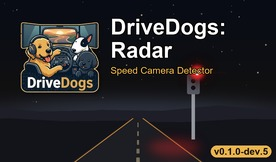
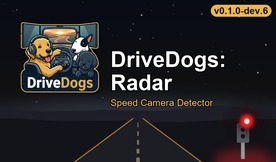
put the cover on the shared drivedogs layout and bump to 0.1.0-dev.6
the other drivedogs covers centre the title block and put the version pill top-right; radar had the
title near the top and the pill bottom-right. the speed camera moves to the bottom-right verge so it
clears the title, the same corner economy uses for its coins and truckparts for its renders.
mod content is unchanged from dev.5: the reference is being re-extracted, so the dev.6 package was
repacked from dev.5 with only the cover and manifest version swapped.

Changed region(s): [[0.3768, 0.2469, 0.8116, 0.9877], [0.4058, 0.0, 0.9855, 0.2469], [0.7536, 0.679, 1.0, 1.0]]

diff --git a/tools/generate_cover.py b/tools/generate_cover.py
@@ -3,9 +3,10 @@
 Generates the Mod Manager cover/thumbnail (src/cover.jpg, referenced by manifest.sii `icon:`). SCS requires a
 276x162 JPEG.
 
-Same layout and gold/amber palette as the other DriveDogs covers (logo left, title block right, road, amber
-version badge); the Radar motif is a night road with a pole-mounted speed camera on the verge firing the
-mod's red police-style strobe, its red glow reflected on the asphalt.
+Same layout and gold/amber palette as the other DriveDogs covers (logo top-left, title block right centred
+on the cover, road, amber version badge top-right); the Radar motif is a night road with a pole-mounted speed
+camera in the bottom-right corner beside the road, firing the mod's red police-style strobe, its red glow
+reflected on the verge.
 
 Composited at 4x (1104x648) then downscaled for anti-aliasing. The badge is read from VERSION, so rerun this
 before every build that bumps the version.
@@ -124,11 +125,12 @@ def add_road(img):
 
 
 def add_camera(img):
-    """Pole speed camera on the right verge (between road and title block), box facing the driver, firing the
-    red strobe: hard core + wide bloom + a red smear on the road below."""
+    """Pole speed camera on the right verge in the bottom-right corner, below the title block (where Economy keeps
+    its coins and Physics its springs), box facing the driver, firing the red strobe: hard core + wide bloom + a
+    red smear on the verge below."""
     w, h = img.size
-    x, base_y = w * 0.70, h * 0.86
-    top_y = h * 0.46
+    x, base_y = w * 0.88, h * 0.98
+    top_y = h * 0.76
     pole_w, box_w, box_h = w * 0.006, w * 0.045, h * 0.12
 
     body = Image.new("RGBA", img.size, (0, 0, 0, 0))
@@ -155,7 +157,7 @@ def add_camera(img):
     rd.line([(sx, sy - h * 0.10), (sx, sy + h * 0.10)], fill=(*STROBE_COLOR, 160), width=int(h * 0.005))
 
     smear = Image.new("RGBA", img.size, (0, 0, 0, 0))
-    ImageDraw.Draw(smear).ellipse([w * 0.52, h * 0.84, w * 0.74, h * 0.98], fill=(*STROBE_COLOR, 90))
+    ImageDraw.Draw(smear).ellipse([w * 0.76, h * 0.90, w * 1.00, h * 1.04], fill=(*STROBE_COLOR, 90))
     return composite(img, smear.filter(ImageFilter.GaussianBlur(radius=h * 0.04)), body, bloom, bloom,
                      rays.filter(ImageFilter.GaussianBlur(radius=h * 0.006)),
                      halo.filter(ImageFilter.GaussianBlur(radius=h * 0.015)), core)
@@ -213,7 +215,7 @@ def add_text(img):
 
     line_bbox = draw.textbbox((0, 0), "Ag", font=title_font)
     line_h = (line_bbox[3] - line_bbox[1]) * 1.15
-    y = h * 0.30 - (line_h * len(title_lines) + line_h * 0.9) / 2
+    y = h * 0.50 - (line_h * len(title_lines) + line_h * 0.9) / 2
     for line in title_lines:
         draw_with_outline(draw, (x_start, y), line, title_font, TITLE_COLOR, width=3)
         y += line_h
@@ -223,15 +225,16 @@ def add_text(img):
 
 
 def add_version_badge(img, version):
+    """Amber pill in the empty top-right corner, as on the other DriveDogs covers."""
     draw = ImageDraw.Draw(img, "RGBA")
     w, h = img.size
     text = f"v{version}"
     font = ImageFont.truetype(FONT_BOLD, int(h * 0.06))
     bbox = draw.textbbox((0, 0), text, font=font)
     pad_x, pad_y = h * 0.02, h * 0.015
-    x1, y1 = w - h * 0.03, h - h * 0.03
+    x1, y0 = w - h * 0.03, h * 0.03
     x0 = x1 - (bbox[2] - bbox[0]) - 2 * pad_x
-    y0 = y1 - (bbox[3] - bbox[1]) - 2 * pad_y
+    y1 = y0 + (bbox[3] - bbox[1]) + 2 * pad_y
     draw.rounded_rectangle([x0, y0, x1, y1], radius=(y1 - y0) / 2, fill=(*BADGE_COLOR, 235))
     draw.text((x0 + pad_x - bbox[0], y0 + pad_y - bbox[1]), text, font=font, fill=BADGE_TEXT_COLOR)
     return img

diff --git a/docs/POC-PLAN.md b/docs/POC-PLAN.md
@@ -82,7 +82,7 @@ Result 1.61: 707 cameras; Berlin = 30× `speed_camera_ch` (white pole + grey box
 |---|---|
 | Camera scan (69 models) + DB (707) | ✅ done, `data/` |
 | Merged mod package | ✅ `output/drivedog_radar_v0.1.0-dev.1.scs`, all 70 patched PMGs verified (geometry identical, original locators kept) |
-| Cover image | ✅ `src/cover.jpg` (`tools/generate_cover.py`, World style) |
+| Cover image | ✅ `src/cover.jpg` (`tools/generate_cover.py`, shared DriveDogs layout: title centred, version pill top-right - dev.6) |
 | Plugin core + unit tests | ✅ `plugin\build.ps1 -Test` passes (707 cameras, 30 Berlin) |
 | Plugin DLL (SDK 1.15) | ✅ `output/plugin/ddradar.dll`, zip `output/drivedog_radar_plugin_v<ver>.zip` |
 | End-to-end SDK harness | ✅ `plugin\build.ps1 -Harness`: fake game drives through a Berlin camera → aux on 350 m before, off 10 m after |
@@ -91,12 +91,13 @@ Result 1.61: 707 cameras; Berlin = 30× `speed_camera_ch` (white pole + grey box
 | In-game test round 3 (dev.2, log `202610072108`) | camera meshes back + strobing ✅; plugin input device registered ✅; unit fitted ✅; aux still greyed ❌ |
 | In-game test round 4 (dev.3, log `202610072131`) | **roof aux enabled** by the r_grill TEST part ✅ (switched on); windshield unit shows **no flare at all** ❌ |
 | In-game test round 5 (dev.4, log `202610072150`) | **whole hookup file rejected** (`flare_vehicle` has no `fake_interior_offset`) → no strobes, aux greyed ❌ — fixed in dev.5 + build-time lint |
+| v0.1.0-dev.6 | cover only (shared DriveDogs layout); mod content identical to dev.5 (not yet playtested), so the dev.5 checklist applies unchanged |
 | Fixes in v0.1.0-dev.2 | PMG rebuilt in standard layout (offsets shifted, indices end the file) · `electric_type: aux_light` on the unit · input display names without `( )` (harness now enforces SDK name rules) |
 
 ## Test checklist — v0.1.0-dev.1 (one session)
 
 Setup: remove `ddradar_spike1.scs` / `ddradar_spike2.scs` and older `drivedog_radar_v*.scs`; copy
-`drivedog_radar_v0.1.0-dev.5.scs` to the mod folder and enable it (needs **Toys DLC** — POC unit body).
+`drivedog_radar_v0.1.0-dev.6.scs` to the mod folder and enable it (needs **Toys DLC** — POC unit body).
 Keep Garage-j1 Radar disabled. Re-fit the windshield unit (saves still reference the removed spike part).
 
 **A. Camera strobe** (Berlin is ideal: 30 cameras)
@@ -105,7 +106,7 @@ Keep Garage-j1 Radar disabled. Re-fit the windshield unit (saves still reference
 - [ ] Note any camera with a misplaced/absent strobe (country + screenshot) → fix via `placement_overrides.json`.
 - [ ] Still fined when speeding? Models look normal (no missing textures)?
 
-**B. Windshield unit + aux** (dev.5)
+**B. Windshield unit + aux** (dev.5 / dev.6)
 - [x] r_grill "DriveDogs aux circuit TEST" enables **roof aux** (round 4).
 - [ ] Keep it fitted. In the windshield slot try "DriveDogs Radar detector TEST A", B, C, D in turn
       (engine off → on for C). For each: roof aux off / on → flare visible? blinking? (day + night shot)
